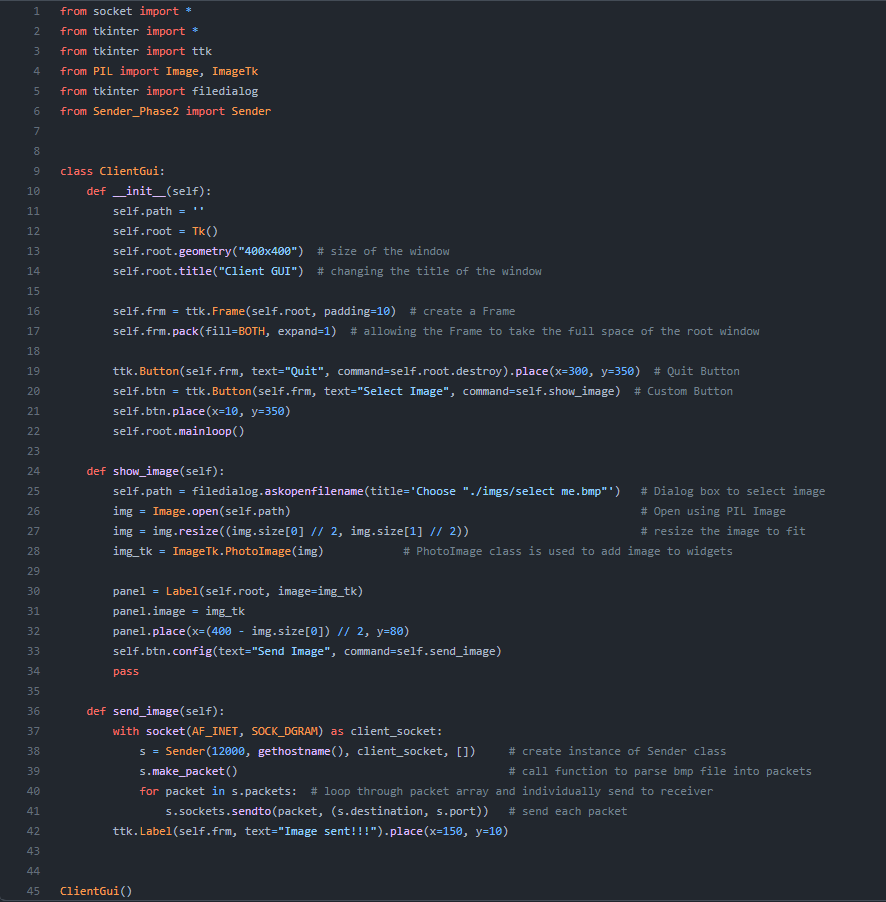
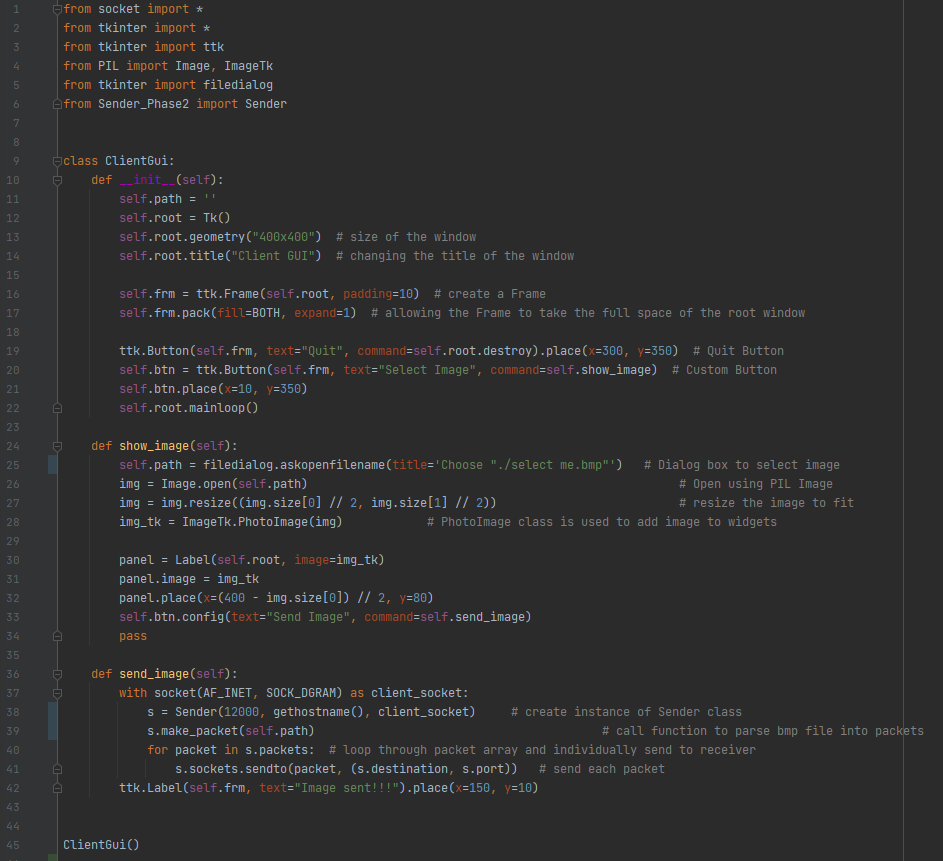
ph1/ph2 separated

diff --git a/source codes/GUI_client.py b/source codes/GUI_client.py
@@ -22,7 +22,7 @@ class ClientGui:
         self.root.mainloop()
 
     def show_image(self):
-        self.path = filedialog.askopenfilename(title='Choose "./imgs/select me.bmp"')   # Dialog box to select image
+        self.path = filedialog.askopenfilename(title='Choose "./select me.bmp"')   # Dialog box to select image
         img = Image.open(self.path)                                                     # Open using PIL Image
         img = img.resize((img.size[0] // 2, img.size[1] // 2))                          # resize the image to fit
         img_tk = ImageTk.PhotoImage(img)            # PhotoImage class is used to add image to widgets
@@ -35,11 +35,13 @@ class ClientGui:
 
     def send_image(self):
         with socket(AF_INET, SOCK_DGRAM) as client_socket:
-            s = Sender(12000, gethostname(), client_socket, [])     # create instance of Sender class
-            s.make_packet()                                         # call function to parse bmp file into packets
+            s = Sender(12000, gethostname(), client_socket)     # create instance of Sender class
+            s.make_packet(self.path)                                         # call function to parse bmp file into packets
             for packet in s.packets:  # loop through packet array and individually send to receiver
                 s.sockets.sendto(packet, (s.destination, s.port))   # send each packet
         ttk.Label(self.frm, text="Image sent!!!").place(x=150, y=10)
 
 
 ClientGui()
+
+

diff --git a/source codes/Sender_Phase2.py b/source codes/Sender_Phase2.py
@@ -2,14 +2,14 @@ from socket import *  # imports socket module to enable network communication
 
 
 class Sender:
-    def __init__(self, port, destination, sockets, packets):
+    def __init__(self, port, destination, sockets):
         self.port = port  # server port number
         self.destination = destination  # server name
         self.sockets = sockets  # client socket
-        self.packets = packets  # packet array
+        self.packets = []  # packet array
 
-    def make_packet(self):
-        image = open('../imgs/select_me.bmp', 'rb')  # opens bitmap file
+    def make_packet(self, path):
+        image = open(path, 'rb')  # opens bitmap file
         i = 0  # initialize loop variable
         while True:
             skip = i * 1024  # skip variable holds number of bytes already stored
@@ -27,9 +27,9 @@ class Sender:
 
 if __name__ == '__main__':
     with socket(AF_INET, SOCK_DGRAM) as client_socket:
-        s = Sender(12000, gethostname(), client_socket, [])  # create instance of Sender class
+        s = Sender(12000, gethostname(), client_socket)  # create instance of Sender class
 
-        s.make_packet()  # call function to parse bmp file into packets
+        s.make_packet('../imgs/select_me.bmp')  # call function to parse bmp file into packets
 
         for packet in s.packets:  # loop through packet array and individually send to receiver
             s.sockets.sendto(packet, (s.destination, s.port))

diff --git a/README.md b/README.md
@@ -2,19 +2,6 @@
 
 Authers: Amirhossein Behzadfar, Abhi, Patel, Kalvin McCallum
 
-Phase 1:
-UDP server/ client
----------------------------------------------------------------------
-Enviroment 
-  -Windows
-  -Python 3.9
-
-
-Server/Client Instruction
-----------------------------------------------------------------------
-  * First run the server.py, then run client.py by passing your desired message as a argument. e.g. python client.py "Hello !!!"
-  * If you pass "exit" by using client, the server will be terminated. 
-  * Note: Msg should be less than 2048 Bytes 
 
 Phase 2:
 Implementation of RDT 1.0 over a reliable UDP channel. 
@@ -36,11 +23,11 @@ Submitted Files:
 
 Sender/Receiver Instruction
 ----------------------------------------------------------------------
-  * Save the provided BMP file to the appropriate directory.
-  * Run the Receiver_Phase2.py first, then run Sender_Phase2.py by passing the BMP file as packets. 
-  * Once the the BMP file has been transferred between the client and server it will be saved in the project folder.
-  * Open the recevied image to ensure that no bits were lost during transfer.
-  * Note: BMP file should be 799 KB and should be named "select me.bmp" and each packet created is of size 1024 Bytes
+  * Save the provided BMP file to the appropriate directory. (in imgs sub directory)
+  * Run the Receiver_Phase2.py first, then run Sender_Phase2.py.
+  * Once the BMP file has been transferred between the client and server it will be saved in the project folder.
+  * Open the received image to ensure that no bits were lost during transfer.
+  * Note: BMP file should be 799 KB and should be named "select_me.bmp" and each packet created is of size 1024 Bytes
 
 GUI Instruction
 ----------------------------------------------------------------------
@@ -49,6 +36,6 @@ GUI Instruction
   * Begin by running GUI_server.py and wait for the GUI server window to open.
   * Once the GUI server window opens, run GUI_client.py and wait for the GUI client window to open.
   * On the GUI server window click on the "Start Server" button in the bottom left-hand corner.
-  * Then click on the "Select Image" button in the bottom left-hand corner of the GUI client window and select the BMP file "select me.bmp".
+  * Then click on the "Select Image" button in the bottom left-hand corner of the GUI client window and select the BMP file "select_me.bmp".
   * Click on the "Send Image" button in the bottom left-hand corner of the GUI client window and wait for message to appear on GUI server window.
   * Once the GUI server window displays "Incoming image received!!!", click on the "Show Image" button in the bottom left corner of the GUI server window.

diff --git a/design.md b/design.md
@@ -60,23 +60,4 @@ ___
 
 
 
-# Phase 1
 
-# Client Code
-___
-![Alt text](imgs/client_snap.png?raw=true "Optional Title")
-* Initiate a UDP socket (SOCK_DGRAM), with the given port that server is listening to and the local host.
-* Sending the argument value passed to the code. 
-* Receiving the response from the server.
-
-# Server Code
-___
-![Alt text](imgs/server_snap.png?raw=true "Optional Title")
-* Initiate a UDP socket (SOCK_DGRAM), then in a while loop listen to the given port and any host.
-* After getting the incoming data, we will send it back to client. 
-* In case of getting 'exit' command the loop will break.
-
-# Client/Server Execution
-___
-![Alt text](imgs/phase_1.png?raw=true "Optional Title")
-* This image illustrates the execution of the UDP client server network.
